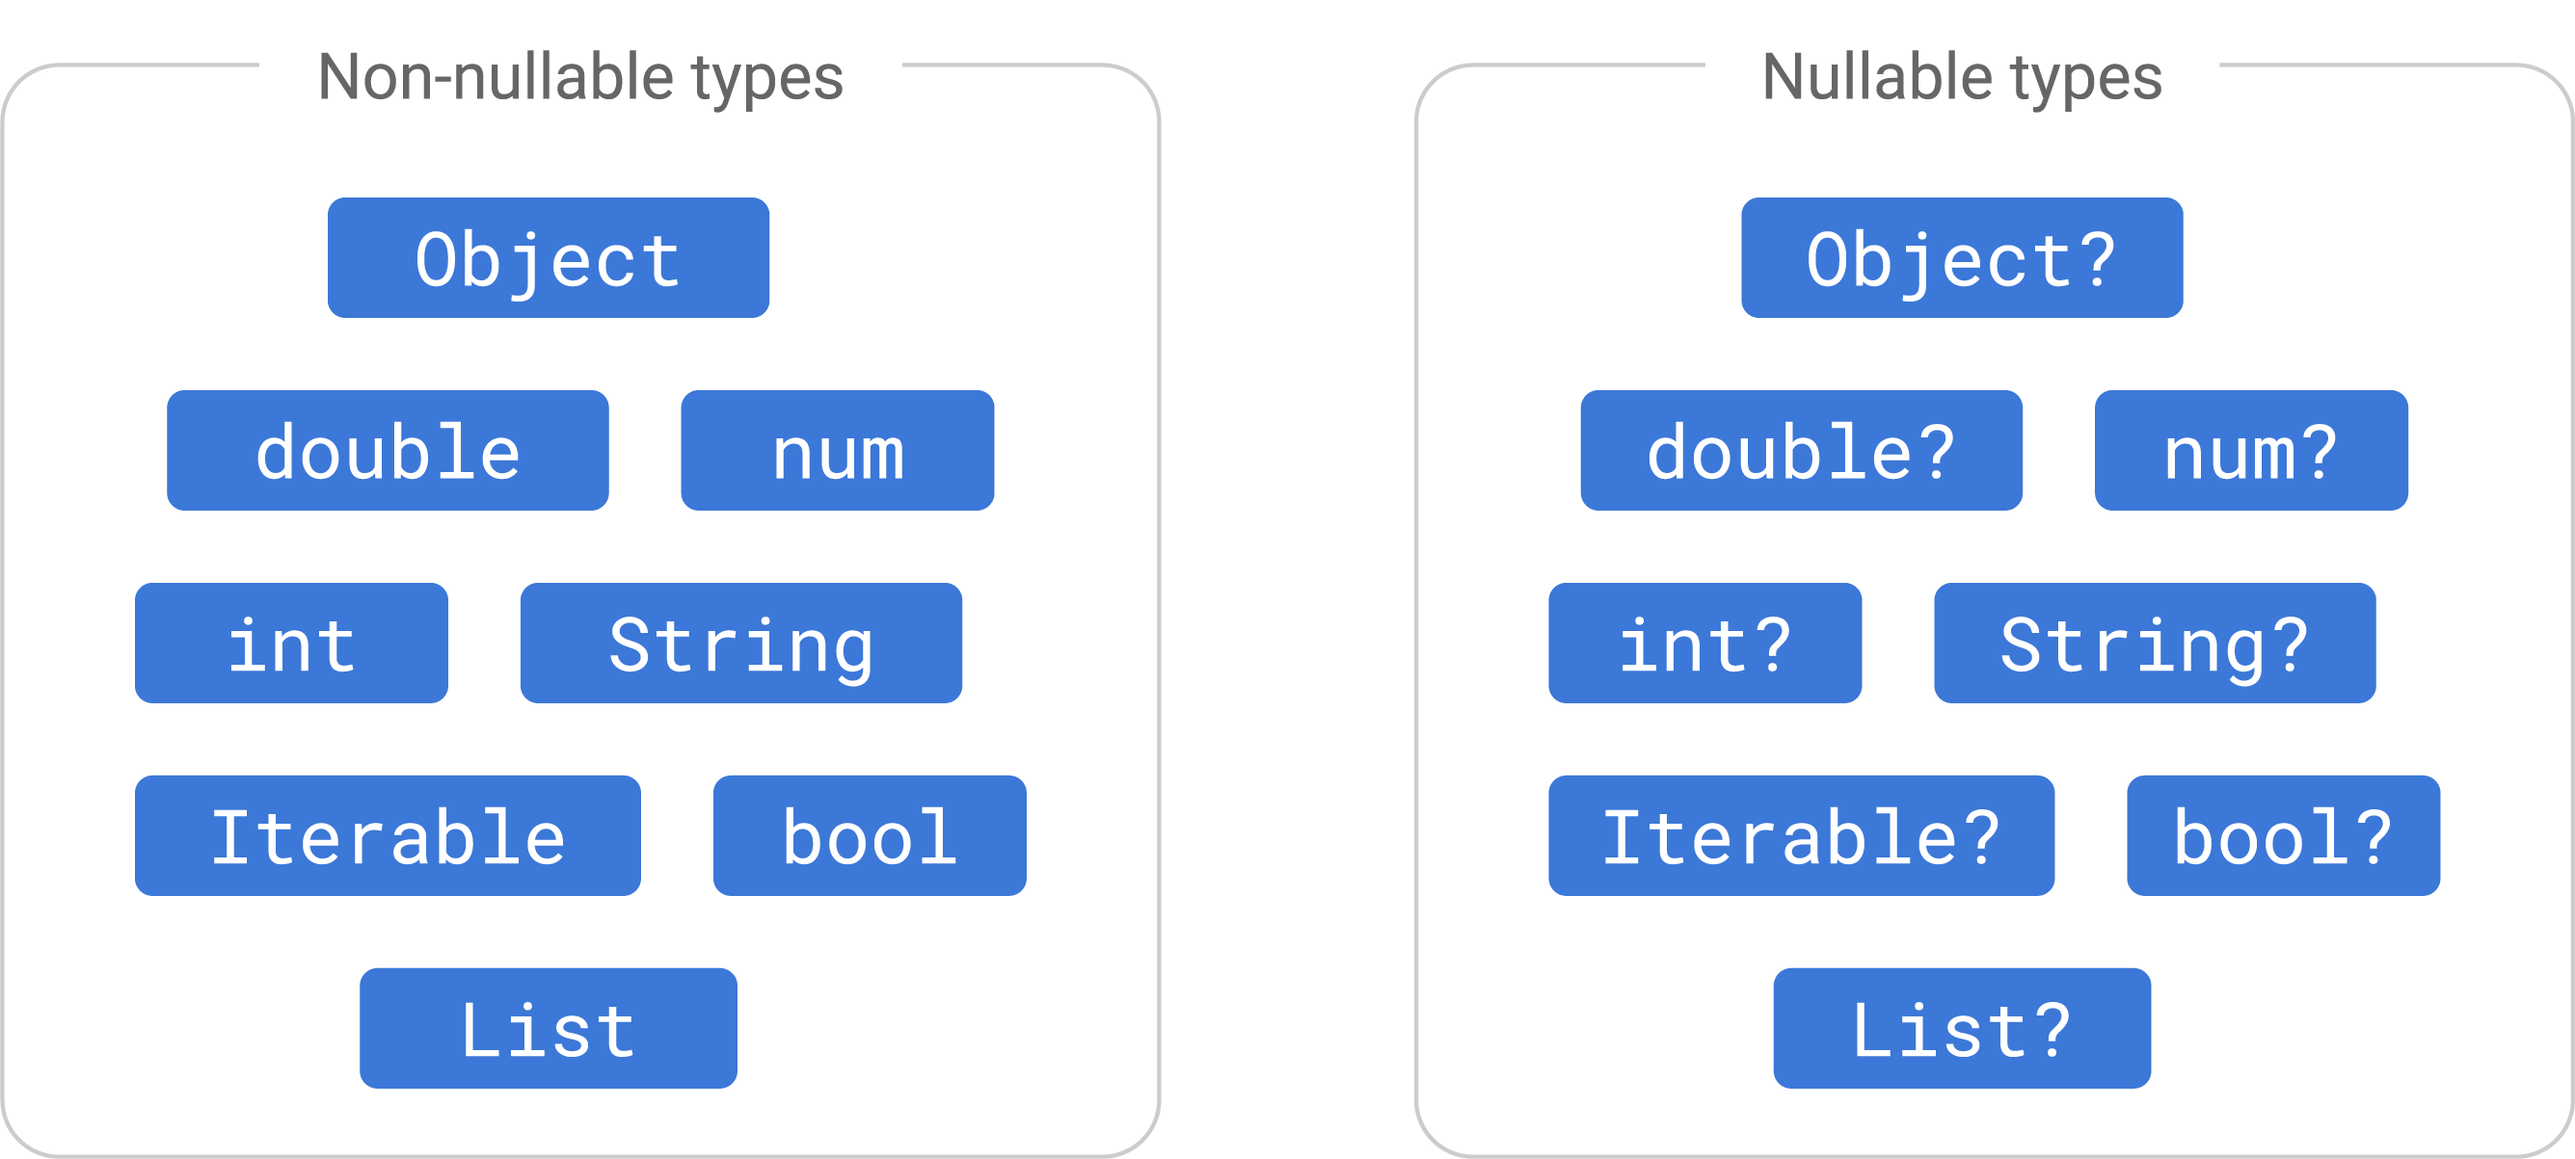
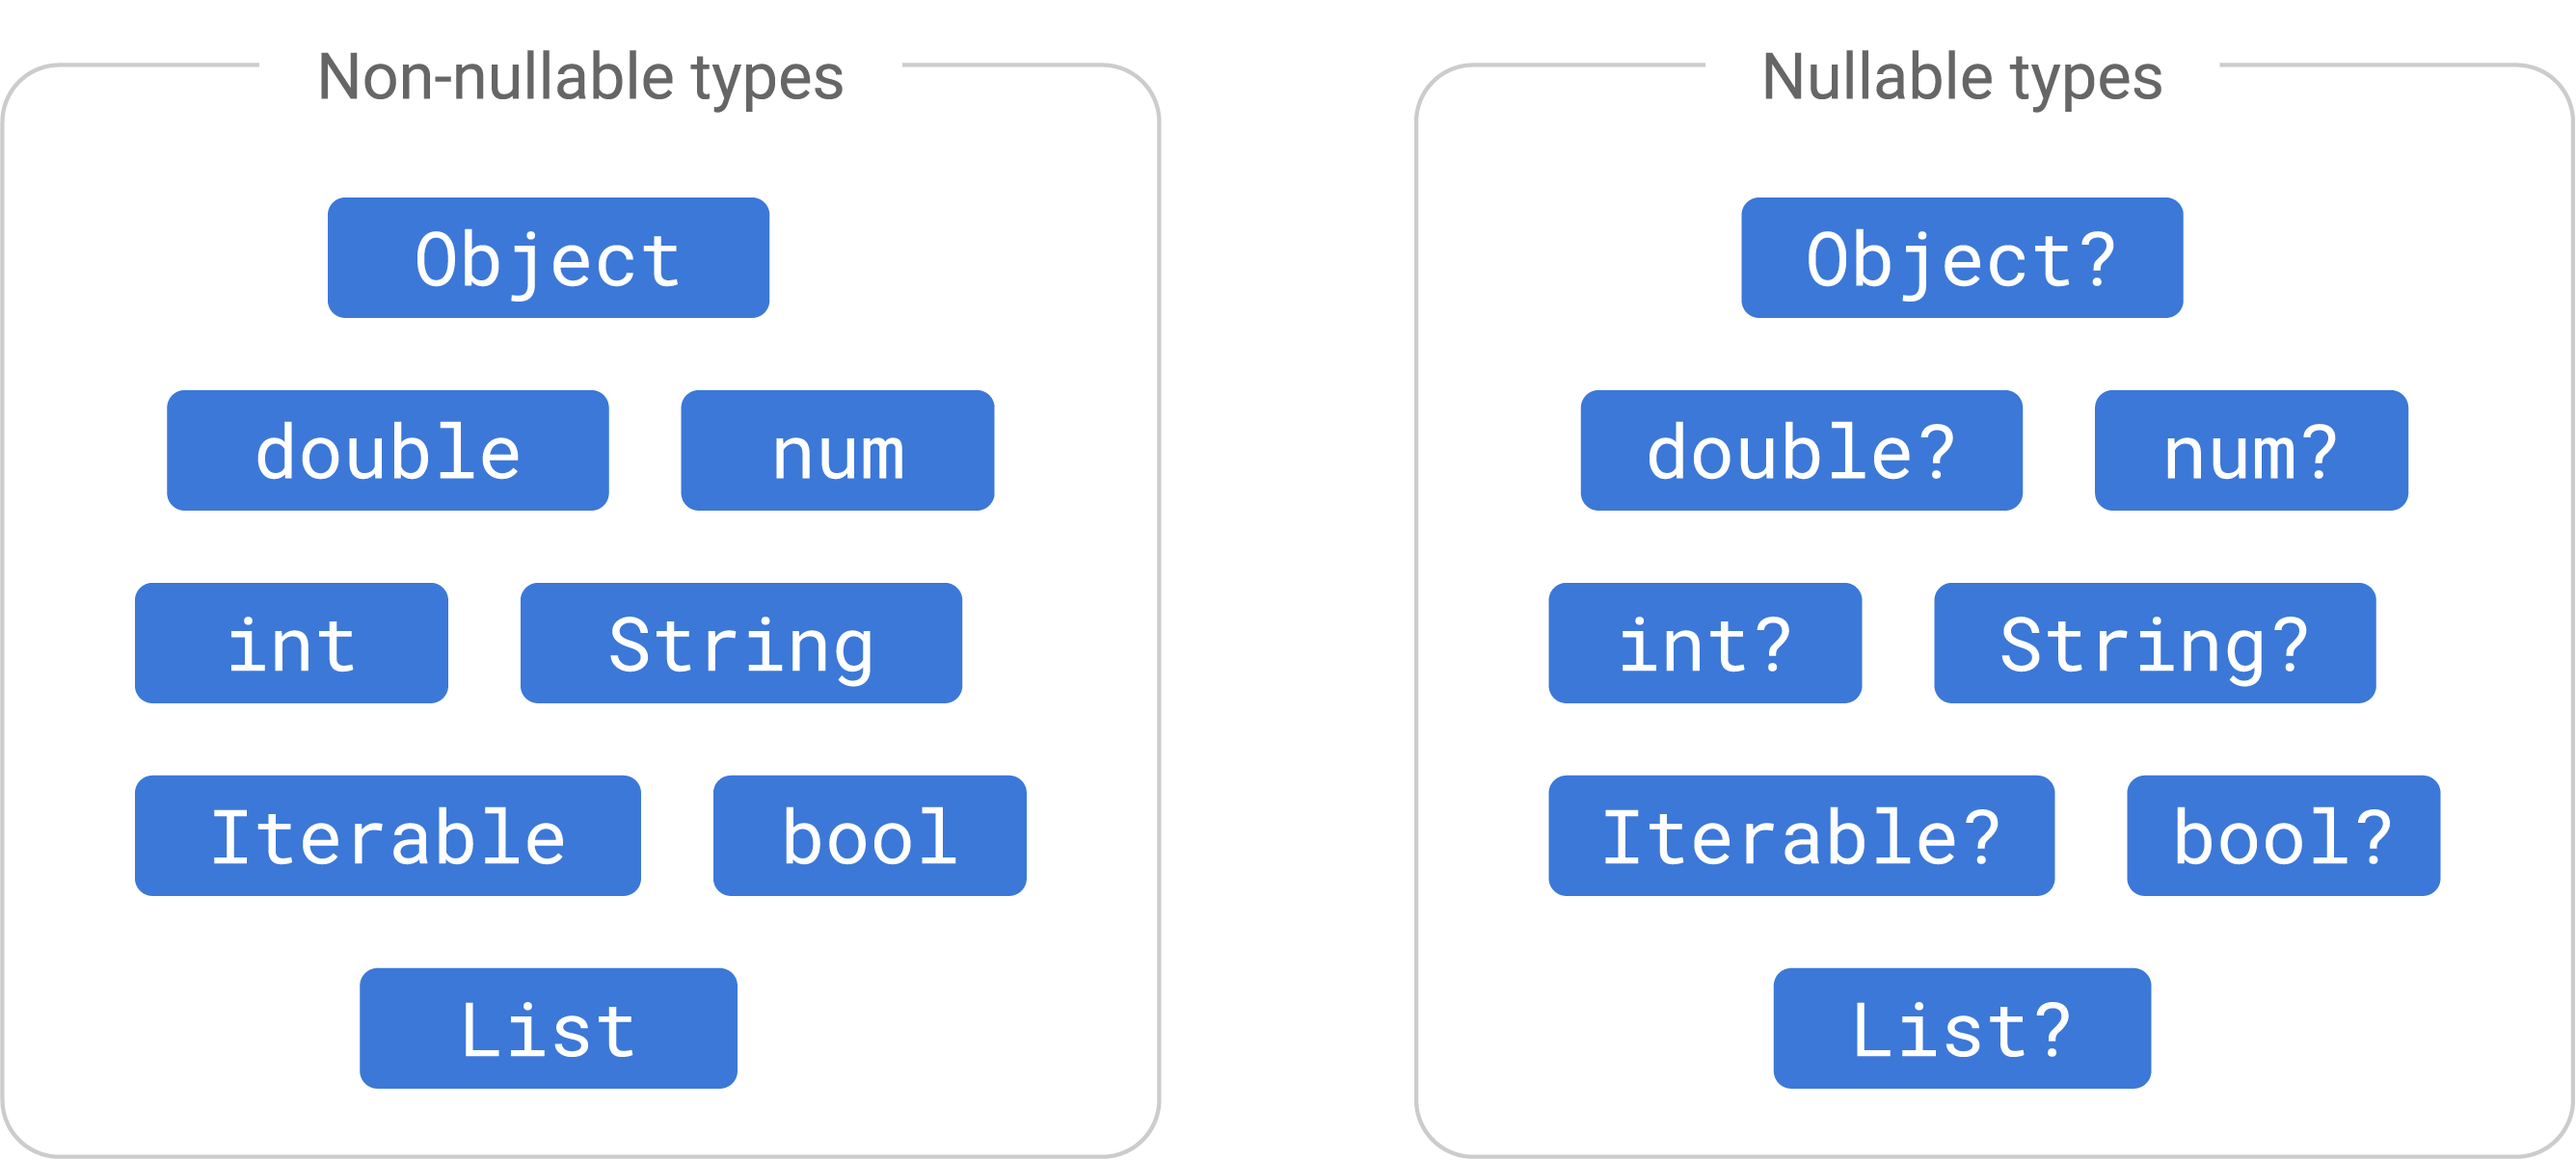
Scale images correctly.

diff --git a/src/null-safety/understanding-null-safety/index.md b/src/null-safety/understanding-null-safety/index.md
@@ -120,7 +120,7 @@ types.
 
 In type theory lingo, the `Null` type was treated as a subtype of all types:
 
-<img src="understanding-null-safety/hierarchy-before.png" width="50%">
+<img src="understanding-null-safety/hierarchy-before.png" width="335">
 
 The set of operations&mdash;getters, setters, methods, and
 operators&mdash;allowed on some expression are defined by its type. If the type
@@ -136,7 +136,7 @@ Null safety eliminates that problem at the root by changing the type hierarchy.
 The `Null` type still exists, but it's no longer a subtype of all types.
 Instead, the type hierarchy looks like this:
 
-<img src="understanding-null-safety/hierarchy-after.png" width="50%">
+<img src="understanding-null-safety/hierarchy-after.png" width="344">
 
 Since `Null` is no longer a subtype, no type except the special `Null` class
 permits the value `null`. We've made all types *non-nullable by default*. If you
@@ -196,7 +196,7 @@ problems. We model this by making every nullable type a supertype of its
 underlying type. You can also safely pass `null` to something expecting a nullable type, so
 `Null` is also a subtype of every nullable type:
 
-<img src="understanding-null-safety/nullable-hierarchy.png" width="50%">
+<img src="understanding-null-safety/nullable-hierarchy.png" width="235">
 
 But going the other direction and passing a nullable type to something expecting
 the underlying non-nullable type is unsafe. Code that expects a `String` may
@@ -271,7 +271,7 @@ returns. With the removal of implicit downcasts, this becomes a compile error.
 Where were we? Right, OK, so it's as if we've taken the universe of types in
 your program and split them into two halves:
 
-<img src="understanding-null-safety/bifurcate.png">
+<img src="understanding-null-safety/bifurcate.png" width="668">
 
 There is a region of non-nullable types. Those types let you access all of the
 interesting methods, but can never ever contain `null`. And then there is a
@@ -312,7 +312,7 @@ subtype of it. Dart has no *named* top type. If you need a top type, you want
 `Object?`. Likewise, `Null` is no longer the bottom type. If it was, everything
 would still be nullable. Instead, we've added a new bottom type named `Never`:
 
-<img src="understanding-null-safety/top-and-bottom.png" width="50%">
+<img src="understanding-null-safety/top-and-bottom.png" width="360">
 
 In practice, this means:
 
